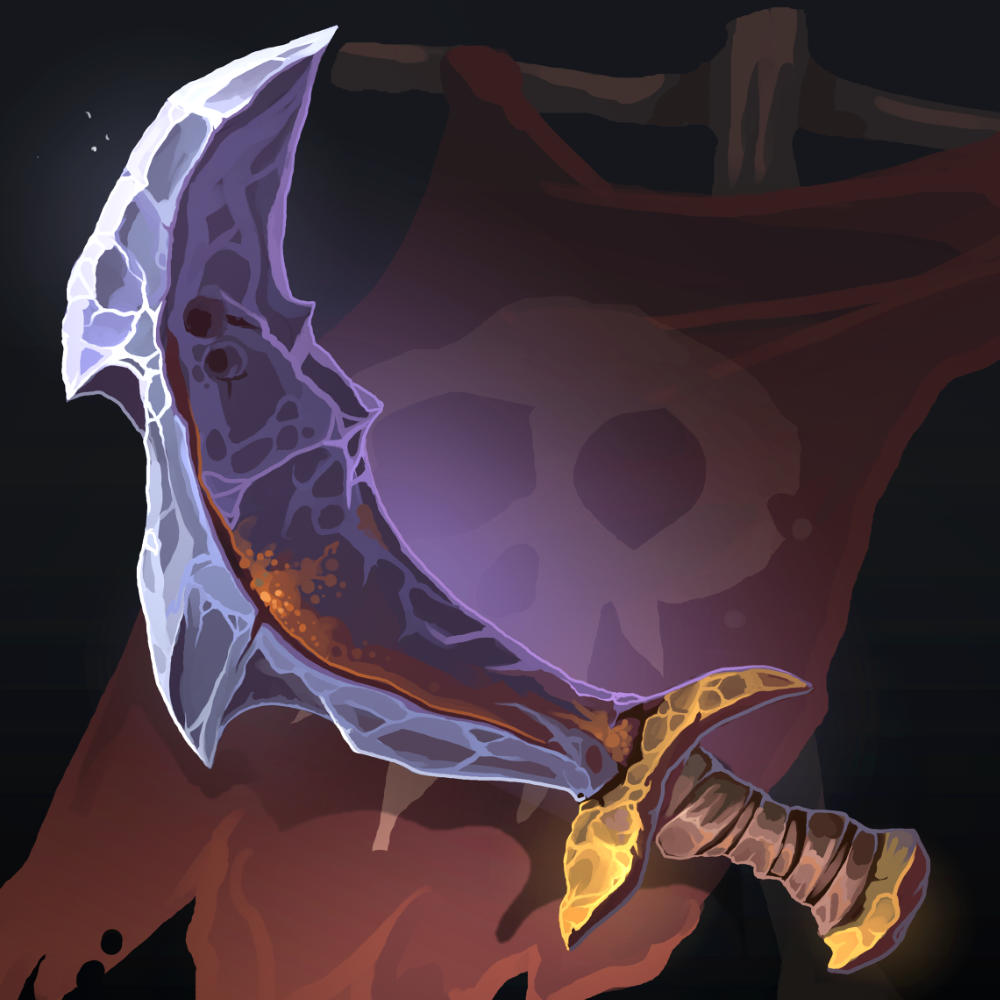
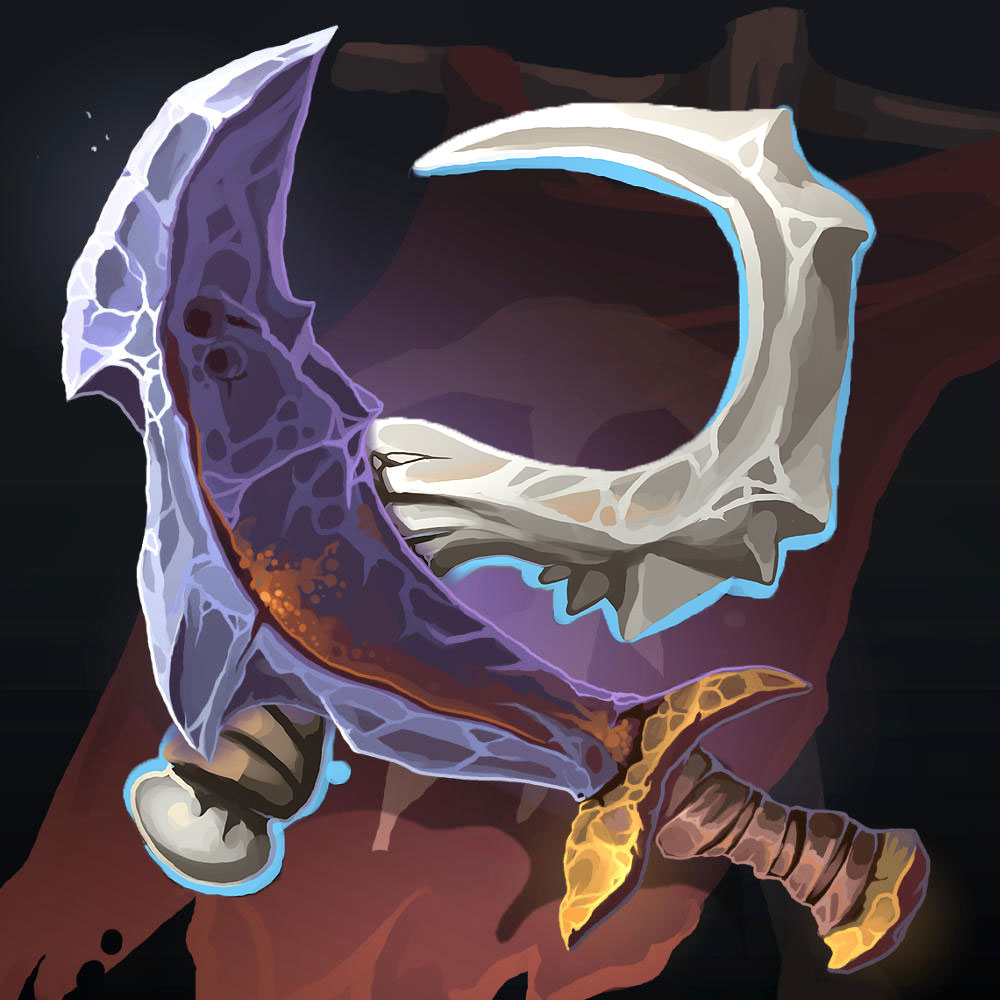
updates

Changed region(s): [[0.341, 0.093, 0.899, 0.651], [0.124, 0.682, 0.372, 0.899]]

diff --git a/src/lib/weapons/play-weapon-card-by-id.js b/src/lib/weapons/play-weapon-card-by-id.js
@@ -1,7 +1,7 @@
 import createWeaponObject from 'lib/creators/create-weapon-object';
 import playerWeapon from 'lib/state/player-weapon';
 
-const playWeaponByCardId = (G, player, cardId) => {
+const playWeaponByCardId = (G, ctx, player, cardId) => {
   const weaponObj = createWeaponObject(cardId);
   G.playerAttackValue[player] = weaponObj && weaponObj.attack;
 
@@ -11,10 +11,17 @@ const playWeaponByCardId = (G, player, cardId) => {
     case 'CORE_081':  return playerWeapon.equip(G, player, weaponObj);
     case 'CORE_100':  return playerWeapon.equip(G, player, weaponObj);
     case 'CORE_127':  return playerWeapon.equip(G, player, weaponObj);
-    case 'CORE_128':  return playerWeapon.equip(G, player, weaponObj);
+    case 'CORE_128':  return equipCORE128(G, ctx, player);
     case 'CORE_132':  return playerWeapon.equip(G, player, weaponObj);
     default:          return;
   }
+};
+
+const equipCORE128 = (G, ctx, player) => {
+  const { random } = ctx;
+  const idols = ['CORE_128a', 'CORE_128b'];
+  const randomWeaponID = random.Shuffle(idols).shift();
+  playerWeapon.equip(G, player, createWeaponObject(randomWeaponID));
 };
 
 export default playWeaponByCardId;

diff --git a/src/lib/moves/play-card.js b/src/lib/moves/play-card.js
@@ -114,7 +114,7 @@ export const playWeaponCard = (G, ctx, uuid, cardId, cardCost) => {
   const { currentPlayer } = ctx;
 
   energy.subtract(G, currentPlayer, cardCost);
-  playWeaponByCardId(G, currentPlayer, cardId);
+  playWeaponByCardId(G, ctx, currentPlayer, cardId);
   playerCanAttack.enable(G, currentPlayer);
   selectCard(G, ctx);
   copyCardToPlayedCards(G, currentPlayer, cardId);

diff --git a/src/lib/spells/core.spells.js b/src/lib/spells/core.spells.js
@@ -318,7 +318,7 @@ const initCoreSpell = (G, ctx, cardId, index) => {
 
     case 'CORE_127':
       playerCanAttack.enable(G, currentPlayer);
-      playWeaponByCardId(G, currentPlayer, cardId);
+      playWeaponByCardId(G, ctx, currentPlayer, cardId);
       break;
 
     case 'CORE_129':

diff --git a/src/config/game.config.js b/src/config/game.config.js
@@ -1,7 +1,7 @@
 const GAME_CONFIG = {
   debugData: {
-    debugCard: 'GAME_001',
-    enableDebugCard: false,
+    debugCard: 'CORE_128',
+    enableDebugCard: true,
     enableAttack: true,
     enableCost: false,
     enableHealth: true,
